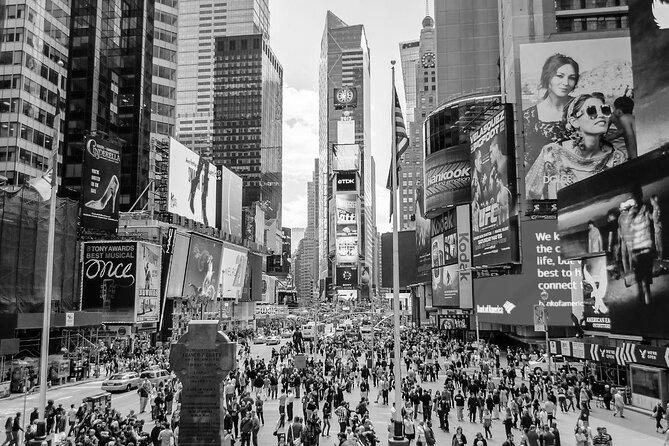
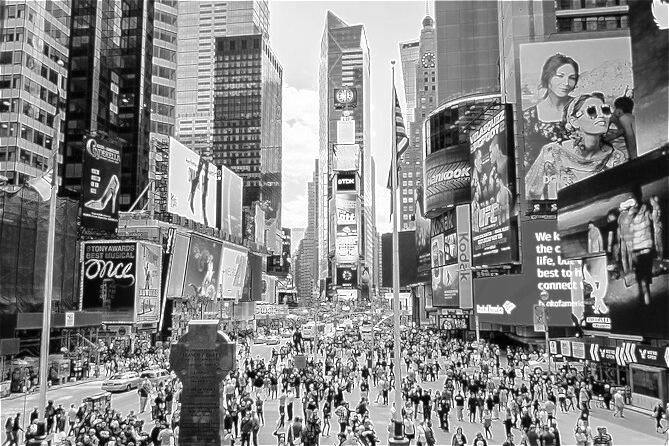
added support for both greyscale and rgb images, still need to check png

diff --git a/main.py b/main.py
@@ -39,7 +39,7 @@ def display_result(modified_array):
     :return: None
     """
     # checks last argument to see if the image should be displayed
-    new_image = Image.fromarray(modified_array)
+    new_image = Image.fromarray(np.uint8(modified_array))
     if sys.argv[-1] == DISPLAY_PARAMETER:
         new_image.show()
     elif sys.argv[-2] == SAVE_PARAMETER:
@@ -85,7 +85,8 @@ def handle_filter_parm(index, filter_parameters, modifiers_list):
 
     filter_name = sys.argv[index + 1]
     filter_args = extract_sub_args(filter_parameters[filter_name],
-                                   index + 2, INVALID_FILTER + '\n' + WRONG_USAGE)
+                                   index + 2,
+                                   INVALID_FILTER + '\n' + WRONG_USAGE)
 
     if len(filter_args) != len(filter_parameters[filter_name]):
         print(INVALID_FILTER)
@@ -166,13 +167,7 @@ def run_command():
 
 
 def main():
-    # run_command()
-    image = Image.open("example_images/one_dog_original.jpg")
-    arr = np.array(image)
-    edge_detection = filter_factory.create_filter("edge-detection")
-    arr = edge_detection.apply(arr)
-    new_image = Image.fromarray(arr)
-    new_image.save("example_images/one_dog_processed.jpg")
+    run_command()
 
 
 if __name__ == "__main__":

diff --git a/filters/grey_scale.py b/filters/grey_scale.py
@@ -11,11 +11,15 @@ class GreyScale(BaseFilter):
     """
     Filter for converting an image to greyscale.
     """
+
     def apply(self, image_array):
         """
         Convert an image to greyscale.
         :param image_array: numpy array of the image to convert to greyscale.
         :return: numpy array of the greyscale image.
         """
+        if len(image_array.shape) == 2: # in case the image is already greyscale
+            return image_array
         return np.dot(image_array[..., :3],
                       [RED_WEIGHT, GREEN_WEIGHT, BLUE_WEIGHT])
+

diff --git a/filters/blur.py b/filters/blur.py
@@ -1,5 +1,5 @@
 from filters.base_filter import BaseFilter
-from utils.convolution import convolve_md
+from utils.convolution import convolve_md, convolve_2d
 import numpy as np
 
 
@@ -24,4 +24,6 @@ class Blur(BaseFilter):
         :param image_array: numpy array of the image to apply the filter to.
         :return: image_array with the box blur filter applied.
         """
+        if len(image_array.shape) == 2:
+            return convolve_2d(image_array, self.kernel)
         return convolve_md(image_array, self.kernel)

diff --git a/filters/sharpen.py b/filters/sharpen.py
@@ -24,6 +24,7 @@ class Sharpen(BaseFilter):
         """
         # TODO: understand how this works
         edges = self.edge_detection.apply(image_array)
-        edges = edges[:, :, None].repeat(3, axis=2)
+        if len(image_array.shape) == 3:
+            edges = edges[:, :, None].repeat(3, axis=2)
         sharpened = image_array.astype(np.int16) + self.factor * edges
-        return np.uint8(np.clip(sharpened, 0, 255))
+        return np.clip(sharpened, 0, 255)

diff --git a/adjustments/contrast.py b/adjustments/contrast.py
@@ -20,5 +20,5 @@ class Contrast(BaseAdjustment):
         :return: adjusted image numpy array.
         """
         # TODO: understand how it works
-        return np.uint8(np.clip(128 + self.factor * image_array.astype(
-            np.int16) - self.factor * 128, 0, 255))
+        return np.clip(128 + self.factor * image_array.astype(
+            np.int16) - self.factor * 128, 0, 255)

diff --git a/adjustments/saturation.py b/adjustments/saturation.py
@@ -21,6 +21,8 @@ class Saturation(BaseAdjustment):
                saturation of.
         :return: adjusted image numpy array.
         """
+        if len(image_array.shape) != 3:  # if the image is not colored
+            return image_array
         # TODO: understand how it works
         image = Image.fromarray(image_array, 'RGB')
         hsl_image = image.convert('HSV')

diff --git a/adjustments/brightness.py b/adjustments/brightness.py
@@ -22,4 +22,4 @@ class Brightness(BaseAdjustment):
         :return: image_array with adjusted brightness.
         """
         adjusted_array = image_array.astype(np.int16) + self.factor
-        return np.uint8(np.clip(adjusted_array, 0, 255))
+        return np.clip(adjusted_array, 0, 255)

diff --git a/filters/edge_detection.py b/filters/edge_detection.py
@@ -31,4 +31,4 @@ class EdgeDetection(BaseFilter):
 
         edges = np.sqrt(np.square(vertical_edges) + np.square(horizontal_edges))
         edges = (edges / np.max(edges)) * 255
-        return np.uint8(edges)
+        return edges

diff --git a/README.md b/README.md
@@ -102,7 +102,7 @@ some examples of the tool in action, mostly simple filter and adjustments combin
   </div>
 </div>
 
-### Greyscale
+### Greyscale and Sharpen
 <div style="display: flex; flex-direction: row; gap: 2%;">
   <div style="text-align: center; width: 40%;">
     <img src="example_images/times_square_original.jpg" alt="original" style="width: 100%;">
